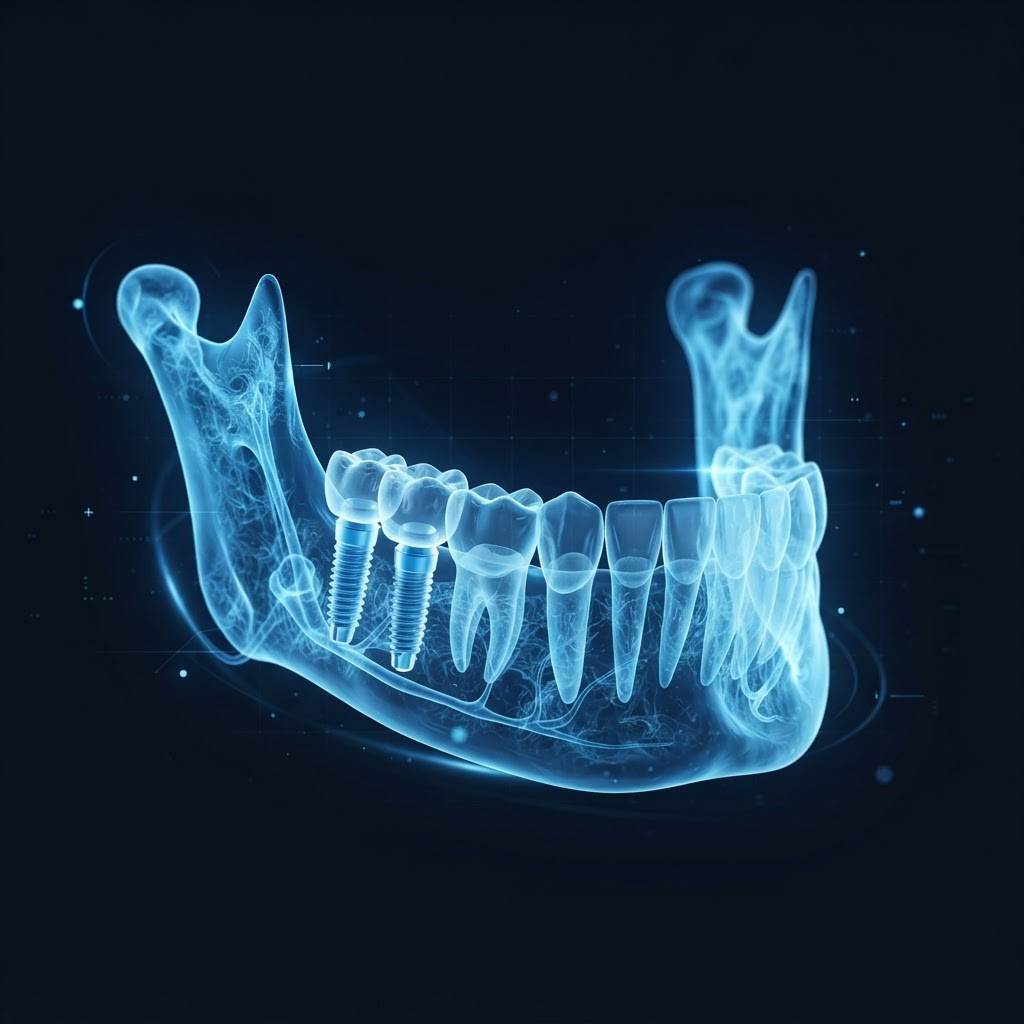
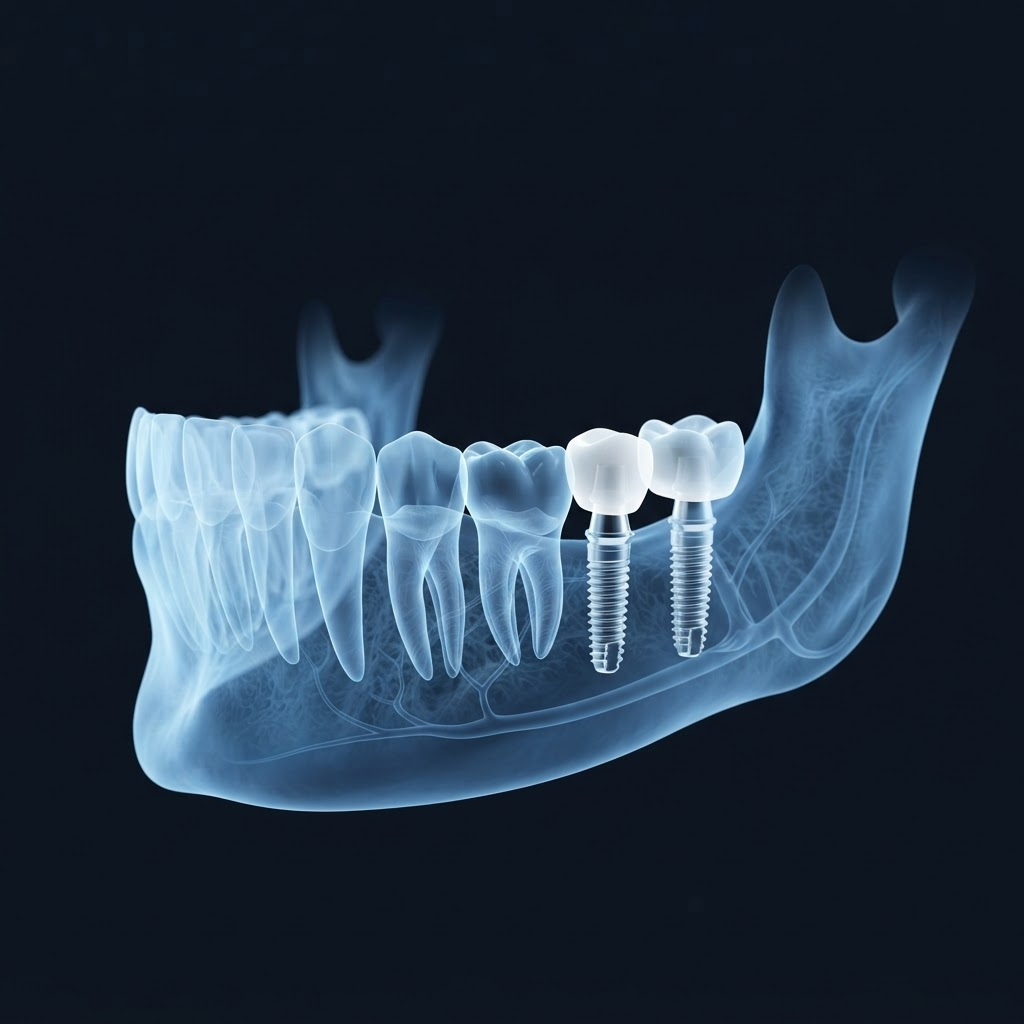
feat: adjust darkImageWrap and darkImage styles for visual enhancement

diff --git a/src/components/WhyChooseUs.styles.ts b/src/components/WhyChooseUs.styles.ts
@@ -26,5 +26,5 @@ export const checkItem = 'flex items-start gap-3';
 export const checkIcon = 'mt-0.5 flex h-5 w-5 shrink-0 items-center justify-center rounded bg-accent text-accent-foreground';
 export const checkText = 'text-sm font-medium leading-snug text-espresso-foreground';
 export const darkDesc = 'mt-8 max-w-md border-t border-espresso-border pt-6 text-sm leading-relaxed text-espresso-muted';
-export const darkImageWrap = 'lg:absolute lg:inset-y-0 lg:left-1/2 lg:right-[calc((100%-100vw)/2)] lg:flex lg:items-center';
-export const darkImage = 'w-full object-cover mix-blend-screen [mask-image:linear-gradient(to_right,transparent_0%,black_12%)] lg:h-full lg:min-h-[560px] lg:w-auto lg:min-w-full lg:object-left';
+export const darkImageWrap = 'lg:absolute lg:inset-y-0 lg:left-[45%] lg:right-[calc((100%-100vw)/2)] lg:flex lg:items-center';
+export const darkImage = 'w-full object-cover mix-blend-lighten [mask-image:linear-gradient(to_right,transparent_0%,black_15%)] lg:h-full lg:min-h-[560px] lg:w-auto lg:min-w-full lg:object-left';
